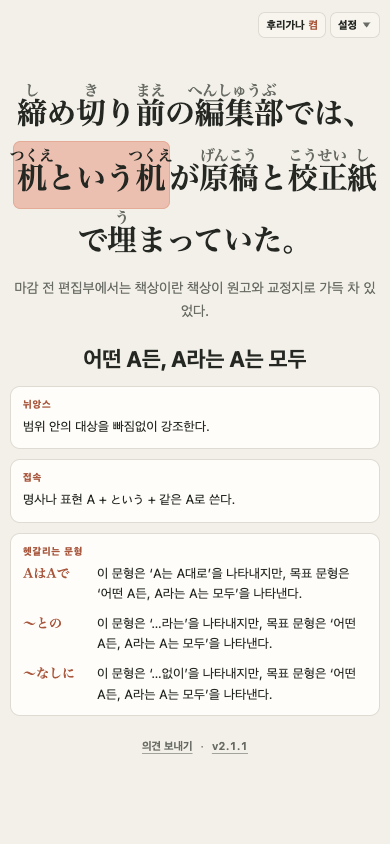
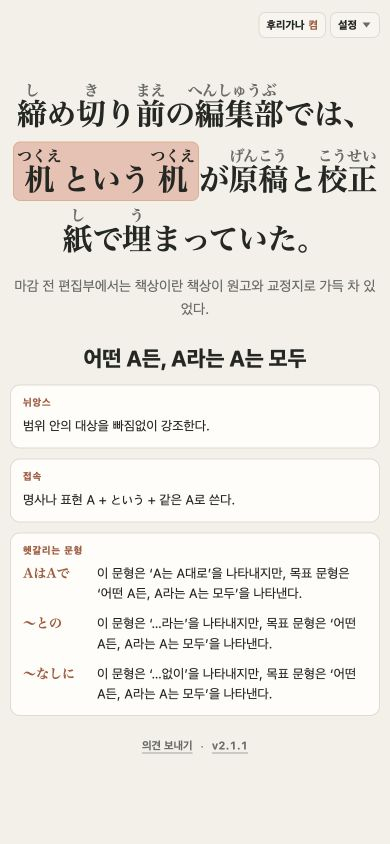
docs: finalize combined 2.1.0 and 2.1.1 announcement

diff --git a/docs/jlpt-gallery-updates/v2.1.1.html b/docs/jlpt-gallery-updates/v2.1.1.html
@@ -94,10 +94,10 @@
   </div>
 
   <div style="margin:40px 8px 0;padding-left:14px;border-left:7px solid #8ee6b1;font-size:25px;font-weight:900;line-height:1.4;letter-spacing:-.045em;">iPhone·iPad 문법 후리가나 표시 수정</div>
-  <p style="margin:16px 8px 0;">iPhone·iPad에서 문법 카드 후리가나가 한자 위가 아니라 본문 옆에 나란히 표시되던 문제를 고쳤음. 2.1.0에서 남아 있던 기본 문법 카드의 예문·비교 문형도 2.1.1에서 함께 바로잡았음.</p>
+  <p style="margin:16px 8px 0;">iPhone·iPad에서 문법 카드 후리가나가 한자 위가 아니라 본문 옆에 나란히 표시되던 문제를 고쳤음. 기본 문법 카드의 예문·비교 문형까지 함께 바로잡았음.</p>
   <div style="margin:18px 0 0;padding:18px;background:#f4f7f5;border:1px solid #dfe5e1;">
-    <img src="https://truthyblue.github.io/jlpt-max-deck/assets/releases/v2.1.1/grammar-ruby.png" alt="기본 문법 답안 · 2.1.1에서 iOS 표시 방식을 재현한 미리보기" width="390" height="844" style="display:block;width:100%;max-width:390px;height:auto;margin:0 auto;border:0;">
-    <div style="margin-top:10px;color:#59645e;font-size:13px;text-align:center;">기본 문법 답안 · 2.1.1에서 iOS 표시 방식을 재현한 미리보기</div>
+    <img src="https://truthyblue.github.io/jlpt-max-deck/assets/releases/v2.1.1/grammar-ruby.png" alt="기본 문법 답안 · 최종 2.1.1 카드 미리보기" width="390" height="844" style="display:block;width:100%;max-width:390px;height:auto;margin:0 auto;border:0;">
+    <div style="margin-top:10px;color:#59645e;font-size:13px;text-align:center;">기본 문법 답안 · 최종 2.1.1 카드 미리보기</div>
   </div>
 
   <div style="margin:40px 8px 0;padding-left:14px;border-left:7px solid #8ee6b1;font-size:25px;font-weight:900;line-height:1.4;letter-spacing:-.045em;">JLPT 목표를 처음부터 쉽게</div>

diff --git a/docs/release-drafts/v2.1.1-github-release.md b/docs/release-drafts/v2.1.1-github-release.md
@@ -8,7 +8,7 @@
 - v2.1.0 한자 빌더에서 한자 확인 오류로 생성이 중단되던 문제를 고쳤습니다.
 - iPhone·iPad 기본 문법 카드의 예문과 비교 문형에서 후리가나가 본문 옆에 붙던 문제를 고쳤습니다.
 
-![기본 문법 답안 · iOS 표시 방식을 재현한 v2.1.1 미리보기](https://raw.githubusercontent.com/truthyblue/jlpt-max-deck/v2.1.1/site/assets/releases/v2.1.1/grammar-ruby.png)
+![기본 문법 답안 · 최종 v2.1.1 카드 미리보기](https://raw.githubusercontent.com/truthyblue/jlpt-max-deck/v2.1.1/site/assets/releases/v2.1.1/grammar-ruby.png)
 
 ## 다운로드
 
@@ -29,6 +29,7 @@ v2.0.3 이하에서 올라오면 [v2.1.0의 어휘 교정과 화면 개선](http
 - 새 설치와 v2.1.0 업데이트, 기존 복습 기록 보존 확인
 - 배포 ZIP 안의 빌더와 공식 PDF 2개로 한자 카드 4,674장 생성·가져오기 통과
 - 기본 문법·비교 문형·문제 카드의 후리가나 배치를 자동 검사와 미리보기로 확인
+- 최종 2.1.1 패키지를 Android 에뮬레이터에 가져와 후리가나 켜기·끄기와 강조 영역 배치 확인
 
 iPhone·iPad 실기기에서의 최종 확인은 아직 하지 못했습니다.
 
